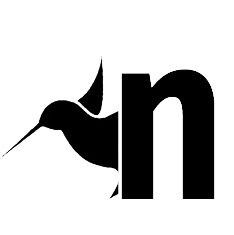
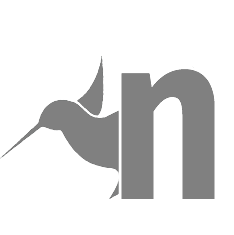
update 12.15

diff --git a/noe_perspecitve.html b/noe_perspecitve.html
@@ -1,0 +1,93 @@
+---
+layout: default
+title: NoE Perspective
+permalink: /data-collection-policy/
+---
+<!-- <section style="height: 100px;"></section>
+<div class="en post-container">
+    {% capture about_en %}{% include policy/en.md %}{% endcapture %}
+    {{ about_en | markdownify }}
+</div> -->
+
+
+
+
+<section style="height: 50px;"></section>
+<!-- Language Selector -->
+<!-- <select class="sel-lang" onchange= "onLanChange(this.options[this.options.selectedIndex].value)">
+    <option value="0" selected> 简体中文</option>
+    <option value="1"> English </option>
+</select> -->
+
+<!-- Chinese Version -->
+<!-- <div class="zh post-container">
+    {% capture policy_zh %}{% include policy/zh.md %}{% endcapture %}
+    {{ noe_per_zh | markdownify }}
+</div> -->
+
+<!-- English Version -->
+<div class="en post-container">
+    {% capture noe_per_en %}{% include perspective/en.md %}{% endcapture %}
+    {{ noe_per_en | markdownify }}
+</div>
+
+
+<section style="height: 50px;"></section>
+
+<!-- <script type="text/javascript">
+    // get nodes
+    var $zh = document.querySelector(".zh");
+    var $en = document.querySelector(".en");
+    var $select = document.querySelector("select");
+
+    // bind hashchange event
+    // Changes at v1.7.2: change the language flag from hash-basing to in-memory basing
+    // due to its confliction with catalog anchors.
+    // window.addEventListener('hashchange', _render);
+
+    // handle render
+    function _render(_hash){
+        var _hash = _hash || window.location.hash;
+        // en
+        if(_hash == "#zh"){
+            // $select.selectedIndex = 1;
+            // $en.style.display = "block";
+            // $en.classList.add("active");
+            // $zh.style.display = "none";
+            // $zh.classList.remove("active");
+            $select.selectedIndex = 0;
+            $zh.style.display = "block";
+            $zh.classList.add("active");
+            $en.style.display = "none";
+            $en.classList.remove("active");
+        // zh by default
+        }else{
+            // not trigger onChange, otherwise cause a loop call.
+            // $select.selectedIndex = 0;
+            // $zh.style.display = "block";
+            // $zh.classList.add("active");
+            // $en.style.display = "none";
+            // $en.classList.remove("active");
+            $select.selectedIndex = 1;
+            $en.style.display = "block";
+            $en.classList.add("active");
+            $zh.style.display = "none";
+            $zh.classList.remove("active");
+        }
+        // interop with catalog 
+        if ("{{ page.catalog }}") generateCatalog(".catalog-body");
+    }
+
+    // handle select change
+    function onLanChange(index){
+        if(index == 0){
+            _hash = "#zh"
+        }else{
+            _hash = "#en"
+        }
+        _render(_hash)
+    }
+
+    // init
+    _render();
+</script> -->

diff --git a/_includes/footer.html b/_includes/footer.html
@@ -8,7 +8,7 @@
   <!-- .footer__link -->
   <div class="footer__copy">
     <small>Shiqi Riino Zhang</small>
-    <small>Legality and internal compliance review by <a href="javascript:void(0);"><i>NoE Perspective</i></a></small>
+    <small>Legality and internal compliance review by <a href="https://li.riino.site/data-collection-policy/"><i>NoE Perspective</i></a></small>
     <small>Image and animte asserts &copy by <a href="https://li.riino.site"><i>Low illuminance</i></a></small>
     <small>All Rights Reserved.</small>
     <ul style="margin-bottom: 0;">

diff --git a/_includes/perspective/en.md b/_includes/perspective/en.md
@@ -1,0 +1,21 @@
+<img src="\img\assets\NoeP.png" alt="NoeP" style="zoom:33%;" class="black-white-image" />
+
+The Perspective division of *Nest of Etamine Studio*, hereinafter referred to as NoE Perspective, is an individual mechanism to protect data authenticity, avoid falsitying, and provide in-house legality and compliance review service by third-party law consultants. Any information transmitted in protected situations*, including any attachments, will be saved and logged by NoE Perspective with timestamps. NoE Perspective will confrim that any review, retransmission, dissemination or other use of, or taking of any action in reliance upon, such information by persons or entities other than the intended recipient will be restrained. 
+
+If you see the icon or the text of NoE Perspective when sending your message, your data will be saved independently to ensure authenticity and become formally valid. Such records can be used for any legal actions by NoE Perspective. Correspondingly, NoE Perspective has responsibility to inform any related entities before collecting data, including both the type of situation and the description link will be included into our notifications.
+
+*In these cases, the data will be originally regarded as apocryphal, and will be saved: 
+
+	    - a) Any message with formal covenants, engagement information, acknowledgements, or material submitted to any services of NoE[1].
+
+	    - b) Any information about privacy[2].
+
+	    - c) Any other information with marks of NoE Perspective.
+
+[1] NoE Services including code services *VOID*, blog template *RiinoSite*, and asserts service *Low illuminance*.
+
+[2] Information which is enough to be used to recognize specific persons.
+
+
+<center>NoE Perspective is ready on 1st, 2021 Jan. Your old data before this date will NOT be transmitted by NoE Perspective.</center>
+
